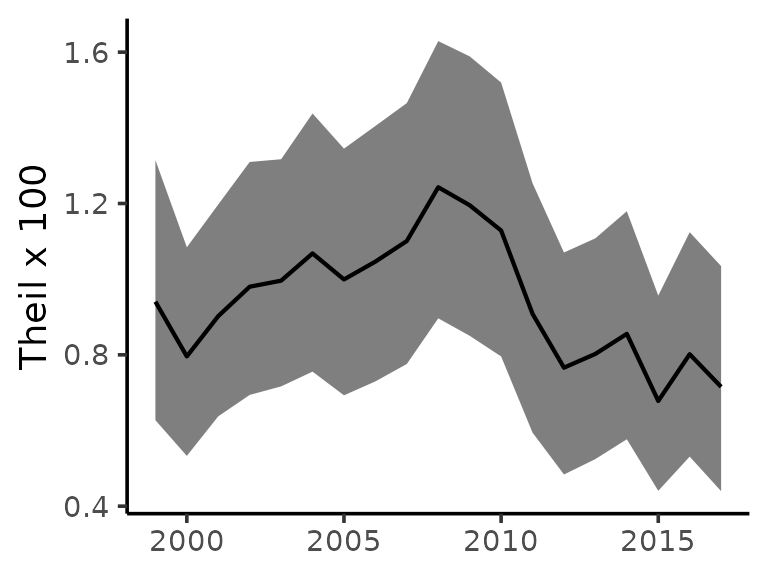
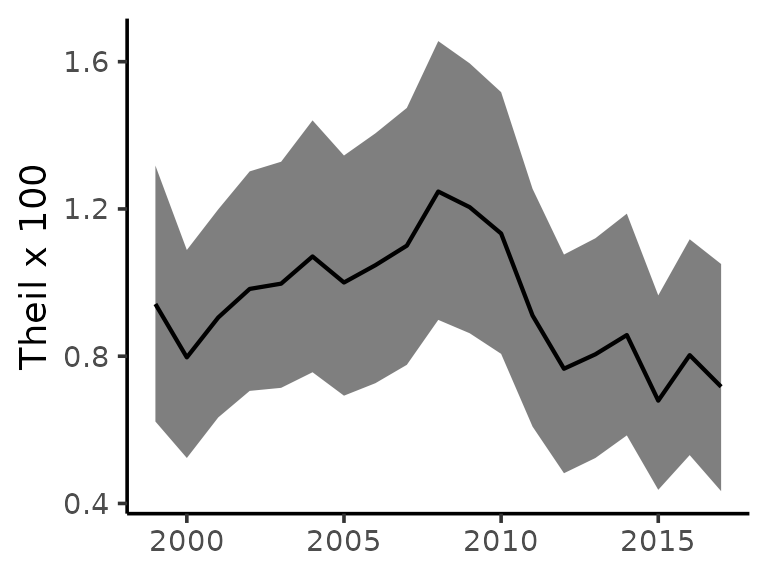
fix spelling

diff --git a/docs/articles/demonstration.html b/docs/articles/demonstration.html
@@ -275,15 +275,15 @@
 <span class="co">#&gt; Chain 1: Iteration: 1501 / 3000 [ 50%]  (Sampling)</span>
 <span class="co">#&gt; Chain 1: Iteration: 3000 / 3000 [100%]  (Sampling)</span>
 <span class="co">#&gt; Chain 1: </span>
-<span class="co">#&gt; Chain 1:  Elapsed Time: 0.542811 seconds (Warm-up)</span>
-<span class="co">#&gt; Chain 1:                0.447004 seconds (Sampling)</span>
-<span class="co">#&gt; Chain 1:                0.989815 seconds (Total)</span>
+<span class="co">#&gt; Chain 1:  Elapsed Time: 0.560679 seconds (Warm-up)</span>
+<span class="co">#&gt; Chain 1:                0.483172 seconds (Sampling)</span>
+<span class="co">#&gt; Chain 1:                1.04385 seconds (Total)</span>
 <span class="co">#&gt; Chain 1: </span>
 <span class="co">#&gt; </span>
 <span class="co">#&gt; SAMPLING FOR MODEL 'poissonRW' NOW (CHAIN 2).</span>
 <span class="co">#&gt; Chain 2: </span>
-<span class="co">#&gt; Chain 2: Gradient evaluation took 1.2e-05 seconds</span>
-<span class="co">#&gt; Chain 2: 1000 transitions using 10 leapfrog steps per transition would take 0.12 seconds.</span>
+<span class="co">#&gt; Chain 2: Gradient evaluation took 1.3e-05 seconds</span>
+<span class="co">#&gt; Chain 2: 1000 transitions using 10 leapfrog steps per transition would take 0.13 seconds.</span>
 <span class="co">#&gt; Chain 2: Adjust your expectations accordingly!</span>
 <span class="co">#&gt; Chain 2: </span>
 <span class="co">#&gt; Chain 2: </span>
@@ -292,15 +292,15 @@
 <span class="co">#&gt; Chain 2: Iteration: 1501 / 3000 [ 50%]  (Sampling)</span>
 <span class="co">#&gt; Chain 2: Iteration: 3000 / 3000 [100%]  (Sampling)</span>
 <span class="co">#&gt; Chain 2: </span>
-<span class="co">#&gt; Chain 2:  Elapsed Time: 0.52748 seconds (Warm-up)</span>
-<span class="co">#&gt; Chain 2:                0.43088 seconds (Sampling)</span>
-<span class="co">#&gt; Chain 2:                0.95836 seconds (Total)</span>
+<span class="co">#&gt; Chain 2:  Elapsed Time: 0.641768 seconds (Warm-up)</span>
+<span class="co">#&gt; Chain 2:                0.506737 seconds (Sampling)</span>
+<span class="co">#&gt; Chain 2:                1.14851 seconds (Total)</span>
 <span class="co">#&gt; Chain 2: </span>
 <span class="co">#&gt; </span>
 <span class="co">#&gt; SAMPLING FOR MODEL 'poissonRW' NOW (CHAIN 3).</span>
 <span class="co">#&gt; Chain 3: </span>
-<span class="co">#&gt; Chain 3: Gradient evaluation took 1.3e-05 seconds</span>
-<span class="co">#&gt; Chain 3: 1000 transitions using 10 leapfrog steps per transition would take 0.13 seconds.</span>
+<span class="co">#&gt; Chain 3: Gradient evaluation took 2.2e-05 seconds</span>
+<span class="co">#&gt; Chain 3: 1000 transitions using 10 leapfrog steps per transition would take 0.22 seconds.</span>
 <span class="co">#&gt; Chain 3: Adjust your expectations accordingly!</span>
 <span class="co">#&gt; Chain 3: </span>
 <span class="co">#&gt; Chain 3: </span>
@@ -309,15 +309,15 @@
 <span class="co">#&gt; Chain 3: Iteration: 1501 / 3000 [ 50%]  (Sampling)</span>
 <span class="co">#&gt; Chain 3: Iteration: 3000 / 3000 [100%]  (Sampling)</span>
 <span class="co">#&gt; Chain 3: </span>
-<span class="co">#&gt; Chain 3:  Elapsed Time: 0.557091 seconds (Warm-up)</span>
-<span class="co">#&gt; Chain 3:                0.434027 seconds (Sampling)</span>
-<span class="co">#&gt; Chain 3:                0.991118 seconds (Total)</span>
+<span class="co">#&gt; Chain 3:  Elapsed Time: 0.57831 seconds (Warm-up)</span>
+<span class="co">#&gt; Chain 3:                0.439422 seconds (Sampling)</span>
+<span class="co">#&gt; Chain 3:                1.01773 seconds (Total)</span>
 <span class="co">#&gt; Chain 3: </span>
 <span class="co">#&gt; </span>
 <span class="co">#&gt; SAMPLING FOR MODEL 'poissonRW' NOW (CHAIN 4).</span>
 <span class="co">#&gt; Chain 4: </span>
-<span class="co">#&gt; Chain 4: Gradient evaluation took 1.5e-05 seconds</span>
-<span class="co">#&gt; Chain 4: 1000 transitions using 10 leapfrog steps per transition would take 0.15 seconds.</span>
+<span class="co">#&gt; Chain 4: Gradient evaluation took 1.4e-05 seconds</span>
+<span class="co">#&gt; Chain 4: 1000 transitions using 10 leapfrog steps per transition would take 0.14 seconds.</span>
 <span class="co">#&gt; Chain 4: Adjust your expectations accordingly!</span>
 <span class="co">#&gt; Chain 4: </span>
 <span class="co">#&gt; Chain 4: </span>
@@ -326,9 +326,9 @@
 <span class="co">#&gt; Chain 4: Iteration: 1501 / 3000 [ 50%]  (Sampling)</span>
 <span class="co">#&gt; Chain 4: Iteration: 3000 / 3000 [100%]  (Sampling)</span>
 <span class="co">#&gt; Chain 4: </span>
-<span class="co">#&gt; Chain 4:  Elapsed Time: 0.526051 seconds (Warm-up)</span>
-<span class="co">#&gt; Chain 4:                0.434911 seconds (Sampling)</span>
-<span class="co">#&gt; Chain 4:                0.960962 seconds (Total)</span>
+<span class="co">#&gt; Chain 4:  Elapsed Time: 0.564073 seconds (Warm-up)</span>
+<span class="co">#&gt; Chain 4:                0.433058 seconds (Sampling)</span>
+<span class="co">#&gt; Chain 4:                0.997131 seconds (Total)</span>
 <span class="co">#&gt; Chain 4:</span></code></pre></div>
 <p>If we wanted to add a correlation structure to the model, we would add <code>cor = TRUE</code> (as opposed to the default, <code>cor = FALSE</code>). To speed things up, we could take advantage of parallel processing using the <code>cores</code> argument (e.g., add <code>cores = 4</code>) to run on 4 cores simultaneously.</p>
 </div>
@@ -358,7 +358,7 @@
 <code class="sourceCode R"><span class="fu">rstan</span><span class="fu">::</span><span class="fu"><a href="https://mc-stan.org/rstan/reference/stan_plot_diagnostics.html" class="external-link">stan_mcse</a></span><span class="op">(</span><span class="va">samples</span><span class="op">)</span>
 <span class="co">#&gt; `stat_bin()` using `bins = 30`. Pick better value with `binwidth`.</span></code></pre></div>
 <p><img src="demonstration_files/figure-html/unnamed-chunk-8-1.png" width="384" style="display: block; margin: auto;"></p>
-<p>Notice that instead of returing the MCSEs themselves, <strong>rstan</strong> divides the MCSEs by the scale of the probability distribution, <span class="math inline">\(\frac{MCSE(\theta)}{SD(\theta)}\)</span>. We can see that these values are all under 0.03, which is quite sufficient. We can always obtain smaller MCSEs by drawing a larger number of samples. For a more detailed view, you can start by printing results with <code>print(samples)</code> to examine the <code>n_eff</code> (ESS) column.</p>
+<p>Notice that instead of returning the MCSEs themselves, <strong>rstan</strong> divides the MCSEs by the scale of the probability distribution, <span class="math inline">\(\frac{MCSE(\theta)}{SD(\theta)}\)</span>. We can see that these values are all under 0.03, which is quite sufficient. We can always obtain smaller MCSEs by drawing a larger number of samples. For a more detailed view, you can start by printing results with <code>print(samples)</code> to examine the <code>n_eff</code> (ESS) column.</p>
 </div>
 </div>
 <div class="section level2">
@@ -426,11 +426,11 @@
 <span class="co">#&gt; Reference group: White</span>
 <span class="co">#&gt; Time periods observed: 19</span>
 <span class="co">#&gt; Rate scale: per 100,000</span>
-<span class="co">#&gt; Cumulative excess cases (EC): 3,202 [2975, 3436]</span>
+<span class="co">#&gt; Cumulative excess cases (EC): 3,207 [2986, 3437]</span>
 <span class="co">#&gt; Cumulative EC as a fraction of group risk (PAR): 0.27 [0.25, 0.28]</span>
 <span class="co">#&gt;  time Rate RD  PAR  RR  EC</span>
-<span class="co">#&gt;  1999  170 35 0.20 1.3  94</span>
-<span class="co">#&gt;  2000  166 30 0.18 1.2  84</span>
+<span class="co">#&gt;  1999  170 35 0.20 1.3  95</span>
+<span class="co">#&gt;  2000  166 30 0.18 1.2  85</span>
 <span class="co">#&gt;  2001  168 34 0.20 1.3 102</span>
 <span class="co">#&gt;  2002  169 39 0.23 1.3 122</span>
 <span class="co">#&gt;  2003  167 40 0.24 1.3 131</span>
@@ -439,7 +439,7 @@
 <span class="co">#&gt;  2006  155 45 0.29 1.4 179</span>
 <span class="co">#&gt;  2007  153 44 0.29 1.4 186</span>
 <span class="co">#&gt;  2008  150 46 0.31 1.4 204</span>
-<span class="co">#&gt;  2009  143 44 0.31 1.4 207</span>
+<span class="co">#&gt;  2009  144 45 0.31 1.5 208</span>
 <span class="co">#&gt;  2010  139 43 0.31 1.4 209</span>
 <span class="co">#&gt;  2011  131 37 0.28 1.4 191</span>
 <span class="co">#&gt;  2012  125 34 0.27 1.4 184</span>
@@ -447,7 +447,7 @@
 <span class="co">#&gt;  2014  126 35 0.27 1.4 204</span>
 <span class="co">#&gt;  2015  122 29 0.24 1.3 180</span>
 <span class="co">#&gt;  2016  122 33 0.27 1.4 209</span>
-<span class="co">#&gt;  2017  122 30 0.25 1.3 199</span></code></pre></div>
+<span class="co">#&gt;  2017  123 30 0.25 1.3 199</span></code></pre></div>
 <p>All of the <strong>surveil</strong> plotting and printing methods provide an option to scale rates by a custom value. By setting <code>scale = 100e3</code> (100,000), the RD is printed as cases per 100,000. Note that none of the other inequality measures (PAR, RR, EC) are ever impacted by this choice.</p>
 <p>The plot method for <code>surveil_diff</code> produces one time series <code>ggplot</code> each for RD, PAR, and EC. The means of the probability distributions for each measure are plotted as lines, while the shading indicates a 95% credible interval:</p>
 <div class="sourceCode" id="cb13"><pre class="downlit sourceCode r">
@@ -474,25 +474,25 @@
 <span class="co">#&gt; Time periods observed: 19</span>
 <span class="co">#&gt; Theil's T (times 100) with 95% credible intervals</span>
 <span class="co">#&gt;  time Theil .lower .upper</span>
-<span class="co">#&gt;  1999 0.940  0.627  1.315</span>
-<span class="co">#&gt;  2000 0.796  0.533  1.084</span>
-<span class="co">#&gt;  2001 0.902  0.637  1.197</span>
-<span class="co">#&gt;  2002 0.980  0.694  1.310</span>
-<span class="co">#&gt;  2003 0.996  0.717  1.317</span>
-<span class="co">#&gt;  2004 1.068  0.756  1.438</span>
-<span class="co">#&gt;  2005 0.999  0.693  1.345</span>
-<span class="co">#&gt;  2006 1.046  0.730  1.405</span>
-<span class="co">#&gt;  2007 1.101  0.776  1.465</span>
-<span class="co">#&gt;  2008 1.243  0.896  1.629</span>
-<span class="co">#&gt;  2009 1.195  0.850  1.589</span>
-<span class="co">#&gt;  2010 1.129  0.796  1.520</span>
-<span class="co">#&gt;  2011 0.908  0.594  1.254</span>
-<span class="co">#&gt;  2012 0.766  0.484  1.070</span>
-<span class="co">#&gt;  2013 0.802  0.524  1.108</span>
-<span class="co">#&gt;  2014 0.855  0.577  1.180</span>
-<span class="co">#&gt;  2015 0.678  0.441  0.957</span>
-<span class="co">#&gt;  2016 0.802  0.531  1.124</span>
-<span class="co">#&gt;  2017 0.715  0.440  1.034</span></code></pre></div>
+<span class="co">#&gt;  1999 0.942  0.623  1.318</span>
+<span class="co">#&gt;  2000 0.797  0.524  1.088</span>
+<span class="co">#&gt;  2001 0.905  0.634  1.199</span>
+<span class="co">#&gt;  2002 0.983  0.706  1.302</span>
+<span class="co">#&gt;  2003 0.997  0.714  1.328</span>
+<span class="co">#&gt;  2004 1.071  0.756  1.441</span>
+<span class="co">#&gt;  2005 1.000  0.693  1.345</span>
+<span class="co">#&gt;  2006 1.047  0.727  1.405</span>
+<span class="co">#&gt;  2007 1.100  0.777  1.474</span>
+<span class="co">#&gt;  2008 1.247  0.899  1.656</span>
+<span class="co">#&gt;  2009 1.205  0.862  1.595</span>
+<span class="co">#&gt;  2010 1.133  0.806  1.517</span>
+<span class="co">#&gt;  2011 0.911  0.609  1.255</span>
+<span class="co">#&gt;  2012 0.766  0.482  1.076</span>
+<span class="co">#&gt;  2013 0.805  0.523  1.120</span>
+<span class="co">#&gt;  2014 0.857  0.585  1.187</span>
+<span class="co">#&gt;  2015 0.679  0.437  0.965</span>
+<span class="co">#&gt;  2016 0.803  0.531  1.118</span>
+<span class="co">#&gt;  2017 0.717  0.433  1.050</span></code></pre></div>
 <p>The probability distribution for Theil’s T can be summarized visualy using the <code>"lines"</code> style plot or by plotting estimates with shaded 95% credible intervals:</p>
 <div class="sourceCode" id="cb16"><pre class="downlit sourceCode r">
 <code class="sourceCode R"><span class="fu"><a href="https://rdrr.io/r/graphics/plot.default.html" class="external-link">plot</a></span><span class="op">(</span><span class="va">Ts</span><span class="op">)</span></code></pre></div>

diff --git a/docs/reference/priors.html b/docs/reference/priors.html
@@ -100,7 +100,7 @@
 <h3 id="lkj-prior">LKJ prior<a class="anchor" aria-label="anchor" href="#lkj-prior"></a></h3>
 
 
-<p>The LKJ prior for correlation matrix has a single parameter, eta (eta &gt; 0). If <code>eta=1</code>, then you are placing a uniform prior on any K-by-K correlation matrix. For eta &gt; 1, there is a higher probability on the identity matrix, such that as eta increases beyond 1, you are expressing greater scepticism towards large correlations. If 0 &lt; eta &lt; 1, then you will be expressing scepticism towards correlations of zero and favoring non-zero correlations. See Stan documentation: <a href="https://mc-stan.org/docs/2_27/functions-reference/lkj-correlation.html" class="external-link">https://mc-stan.org/docs/2_27/functions-reference/lkj-correlation.html</a>.</p>
+<p>The LKJ prior for correlation matrix has a single parameter, eta (eta &gt; 0). If <code>eta=1</code>, then you are placing a uniform prior on any K-by-K correlation matrix. For eta &gt; 1, there is a higher probability on the identity matrix, such that as eta increases beyond 1, you are expressing greater skepticism towards large correlations. If 0 &lt; eta &lt; 1, then you will be expressing skepticism towards correlations of zero and favoring non-zero correlations. See Stan documentation: <a href="https://mc-stan.org/docs/2_27/functions-reference/lkj-correlation.html" class="external-link">https://mc-stan.org/docs/2_27/functions-reference/lkj-correlation.html</a>.</p>
 </div>
 
     </div>

diff --git a/docs/reference/surveil-package.html b/docs/reference/surveil-package.html
@@ -65,7 +65,7 @@
     <div id="references">
     <h2>References</h2>
     <p>Brandt P, Williams JT. Multiple time series models. Thousand Oaks, CA: SAGE Publications, 2007. ISBN:9781412906562</p>
-<p>Clatyon, DG. Generalized linear mixed models. In: Gilks WR, Richardson S, Spiegelhalter DJ, editors. Markov chain Monte Carlo in practice. Boca Raton, FL: CRC Press, 1996. p. 275-302. ISBN:9780412055515</p>
+<p>Clayton, DG. Generalized linear mixed models. In: Gilks WR, Richardson S, Spiegelhalter DJ, editors. Markov chain Monte Carlo in practice. Boca Raton, FL: CRC Press, 1996. p. 275-302. ISBN:9780412055515</p>
 <p>Conceicao P, Galbraith JK, Bradford P. The Theil Index in sequences of nested and hierarchic grouping structures: implications for the measurement of inequality through time, with data aggregated at different levels of industrial classification. Eastern Economic Journal 2001;27(4):491-514.</p>
 <p>Stan Development Team (2020). RStan: the R interface to Stan. R package version 2.21.2. https://mc-stan.org</p>
 <p>Theil H. Statistical decomposition analysis. Amsterdam, The Netherlands: North-Holland Publishing Company, 1972. ISBN:0444103783</p>

diff --git a/docs/reference/print.apc.html b/docs/reference/print.apc.html
@@ -89,7 +89,7 @@
 <dt>max</dt>
 <dd><p>Maximum number of time periods (rows) to print</p></dd>
 <dt>...</dt>
-<dd><p>additional arguments; for the print arugment, these will be passed to <code><a href="https://rdrr.io/r/base/print.dataframe.html" class="external-link">print.data.frame</a></code>. For the plot method, these will be passed to <code><a href="https://ggplot2.tidyverse.org/reference/theme.html" class="external-link">theme</a></code>.</p></dd>
+<dd><p>additional arguments; for the print argument, these will be passed to <code><a href="https://rdrr.io/r/base/print.dataframe.html" class="external-link">print.data.frame</a></code>. For the plot method, these will be passed to <code><a href="https://ggplot2.tidyverse.org/reference/theme.html" class="external-link">theme</a></code>.</p></dd>
 <dt>cumulative</dt>
 <dd><p>Plot cumulative percent change? Defaults to <code>cumulative = FALSE</code></p></dd>
 <dt>style</dt>

diff --git a/docs/reference/theil.html b/docs/reference/theil.html
@@ -137,13 +137,13 @@
 <dd><p>An id for each MCMC sample; note that samples are from the joint distribution</p></dd>
 
 <dt>Theil_between</dt>
-<dd><p>The between-geographies component of Thiel's index</p></dd>
+<dd><p>The between-geographies component of Theil's index</p></dd>
 
 <dt>Theil_within</dt>
 <dd><p>The within-geographies component of Theil's index</p></dd>
 
 <dt>Theil</dt>
-<dd><p>Theil's indequality index (T = Between + Within)</p></dd>
+<dd><p>Theil's inequality index (T = Between + Within)</p></dd>
 .
 
 </dl></div>

diff --git a/cran-comments.md b/cran-comments.md
@@ -1,6 +1,9 @@
+
+# win-builder
 Sent to win-builder and received "Status: OK"
 
 
+# Ubuntu 
 Results from `devtools::check(remote = TRUE, incoming = TRUE, manual = T)` on Ubuntu 20.4:
 
 ── R CMD check results ────────────────────────────────────── surveil 0.1.1 ────
